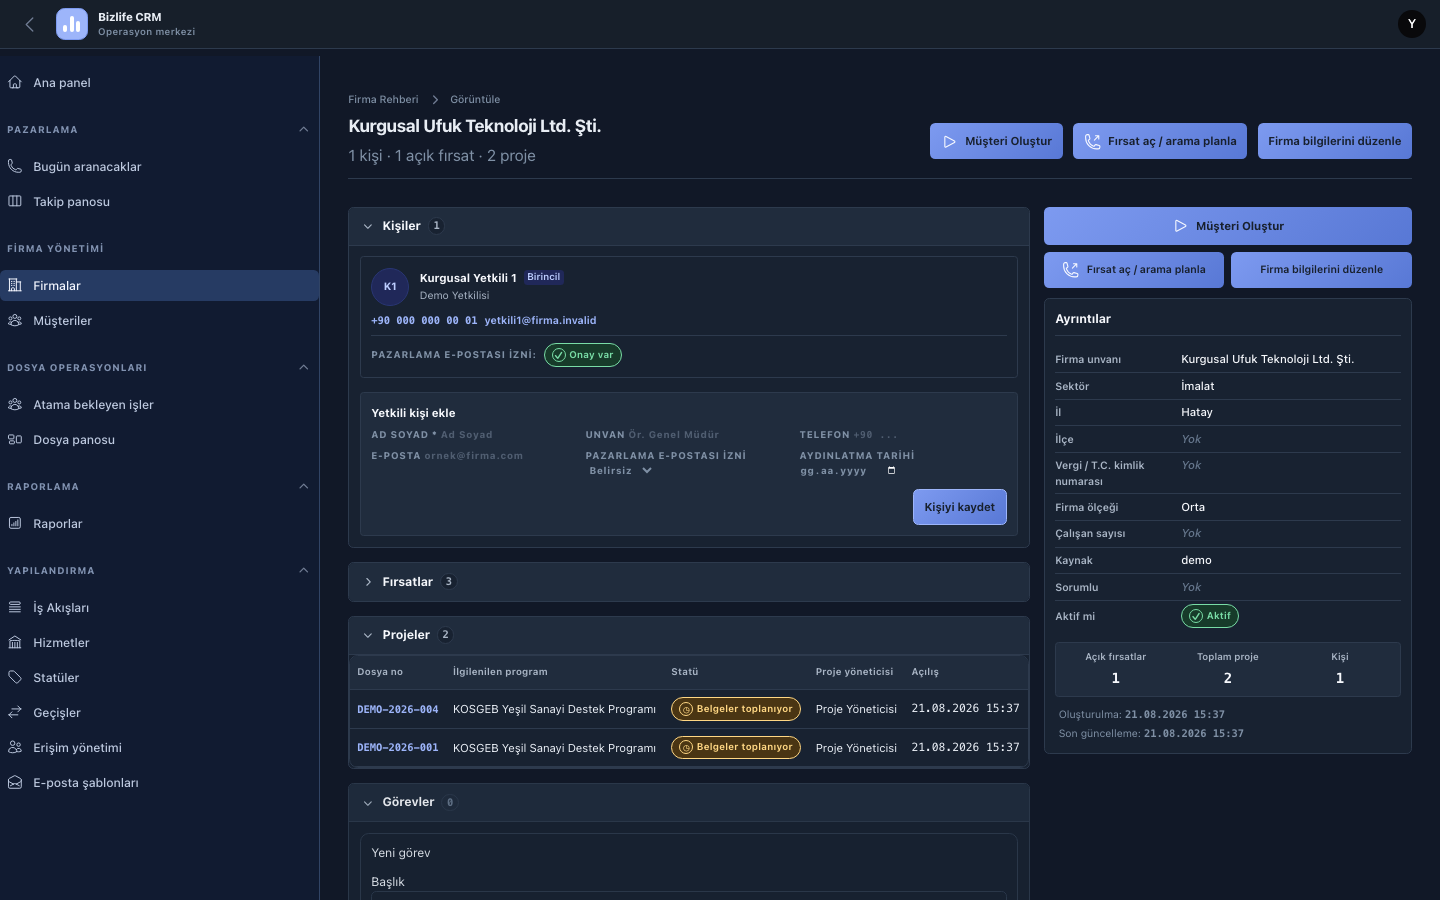
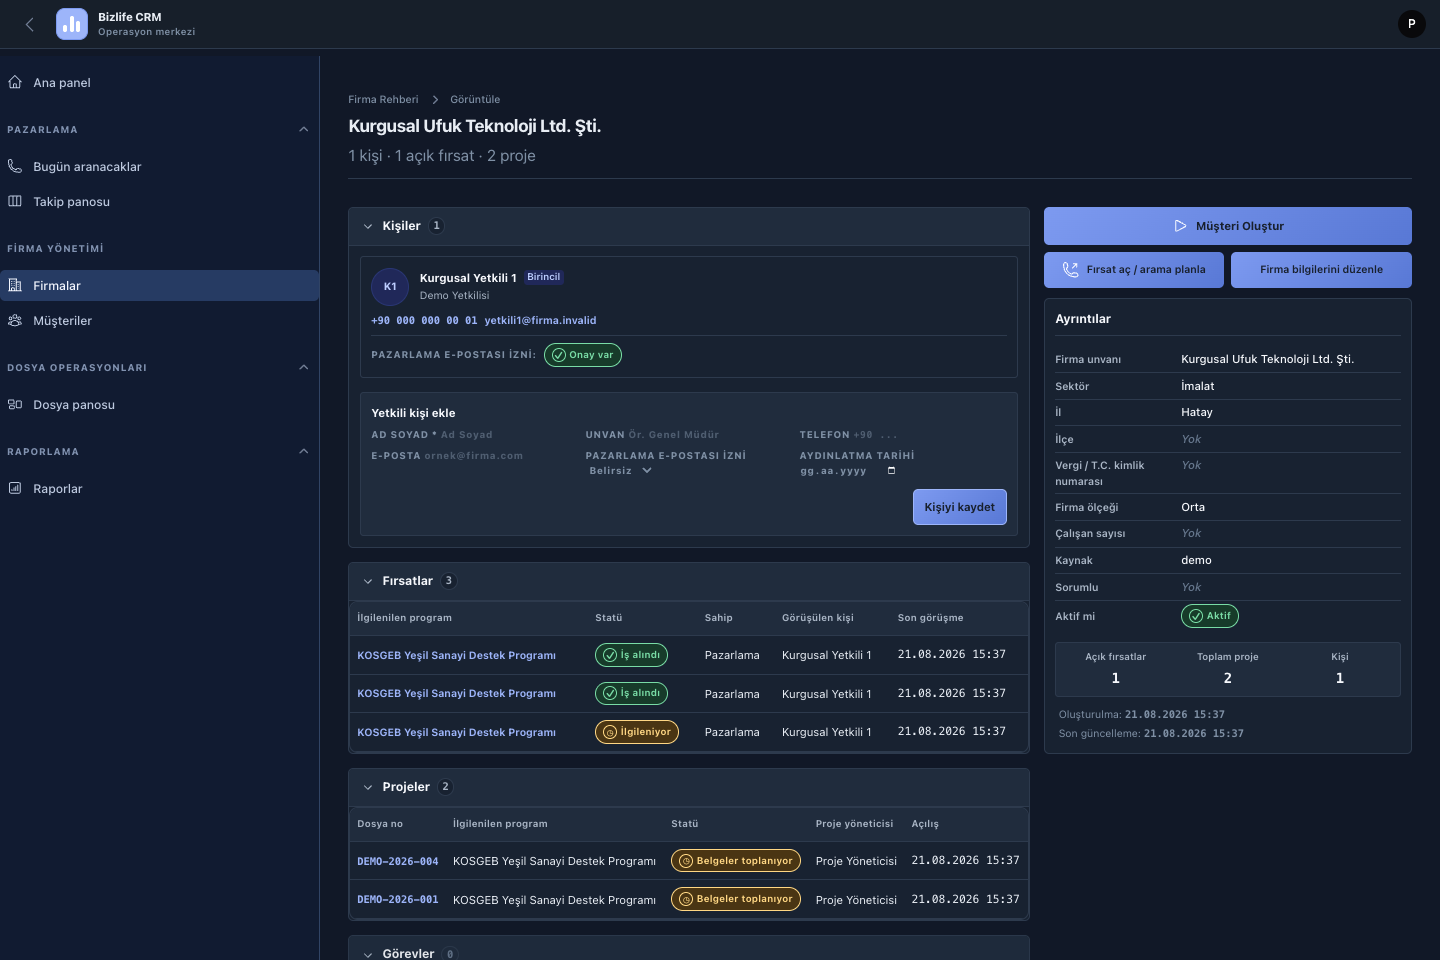
fix(company): basliktaki mukerrer aksiyonlari kaldir

diff --git a/tests/Feature/Filament/MarketingScreensTest.php b/tests/Feature/Filament/MarketingScreensTest.php
@@ -286,7 +286,7 @@ it('firma detayını jira tarzı tek sayfada sekmeler olmadan iki kolon ve katla
         ->and($view)->toContain('company-tasks-section')
         ->and($view)->toContain('company-activity-section');
 
-    Livewire::test(ViewCompany::class, ['record' => $fixture['company']->getRouteKey()])
+    $test = Livewire::test(ViewCompany::class, ['record' => $fixture['company']->getRouteKey()])
         ->assertSee('Kişiler')
         ->assertSee('Fırsatlar')
         ->assertSee('Projeler')
@@ -296,6 +296,7 @@ it('firma detayını jira tarzı tek sayfada sekmeler olmadan iki kolon ve katla
         ->assertSee('Müşteri Oluştur')
         ->assertSee('Fırsat aç / arama planla')
         ->assertSee('Firma bilgilerini düzenle')
+        ->assertDontSeeHtml('fi-header-actions-ctn')
         ->assertSee($fixture['company']->legal_name)
         ->assertSee($fixture['contact']->full_name)
         ->assertDontSeeHtml('class="deal-tabs"')
@@ -308,6 +309,11 @@ it('firma detayını jira tarzı tek sayfada sekmeler olmadan iki kolon ve katla
         ->assertSet('activityDirection', 'asc')
         ->call('toggleActivityDirection')
         ->assertSet('activityDirection', 'desc');
+
+    $html = $test->html();
+    expect(substr_count($html, 'Müşteri Oluştur'))->toBe(1)
+        ->and(substr_count($html, 'Fırsat aç / arama planla'))->toBe(1)
+        ->and(substr_count($html, 'Firma bilgilerini düzenle'))->toBe(1);
 });
 
 it('boş bölümleri gizlemeden sıfır sayısıyla ve sağ raydaki boş alanları Yok olarak gösterir', function (): void {

diff --git a/app/Filament/Resources/Companies/Pages/ViewCompany.php b/app/Filament/Resources/Companies/Pages/ViewCompany.php
@@ -11,6 +11,8 @@ use App\Filament\Resources\Companies\CompanyResource;
 use App\Filament\Support\CompanyOpportunityAction;
 use App\Filament\Support\CustomerFlowAction;
 use App\Support\Authorization\ScopedQuery;
+use Filament\Actions\Action;
+use Filament\Actions\ActionGroup;
 use Filament\Actions\EditAction;
 use Filament\Notifications\Notification;
 use Filament\Resources\Pages\ViewRecord;
@@ -64,6 +66,14 @@ final class ViewCompany extends ViewRecord
             CompanyOpportunityAction::make(),
             EditAction::make()->label(__('panel.company_directory.edit')),
         ];
+    }
+
+    /**
+     * @return array<Action|ActionGroup>
+     */
+    public function getCachedHeaderActions(): array
+    {
+        return [];
     }
 
     public function setActivityFilter(string $filter): void
